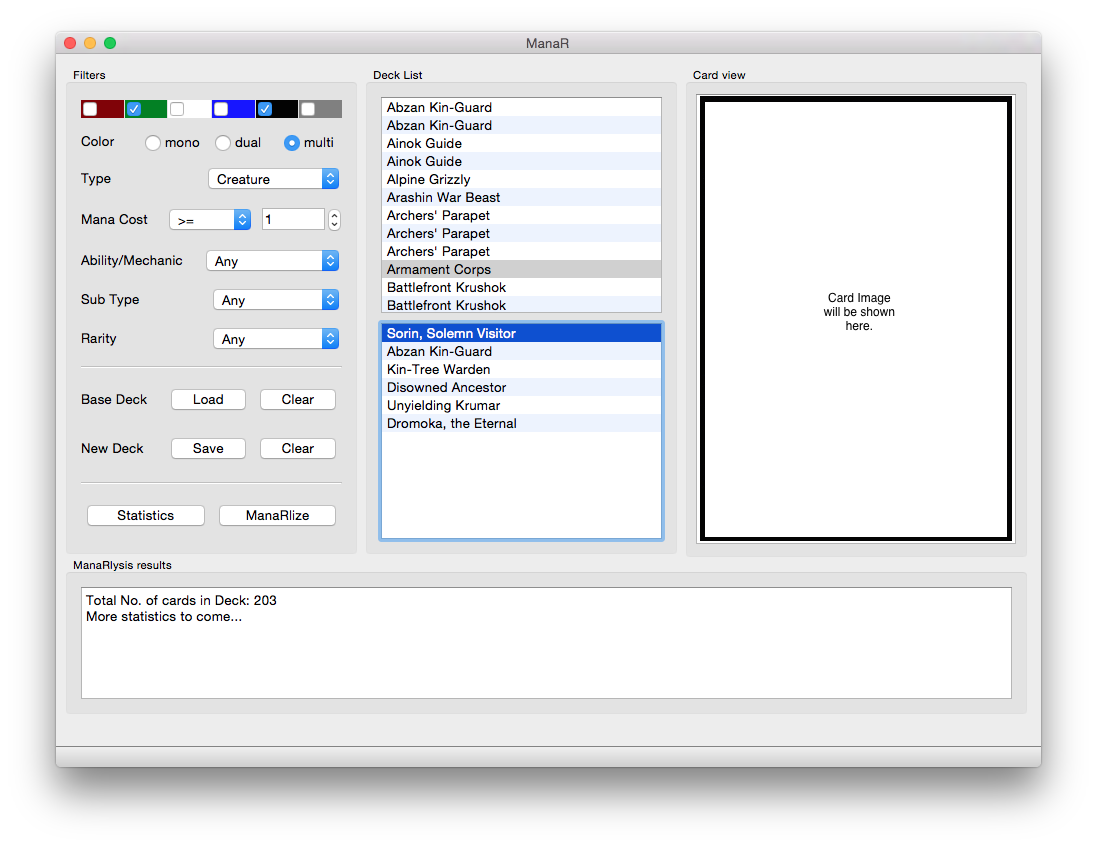
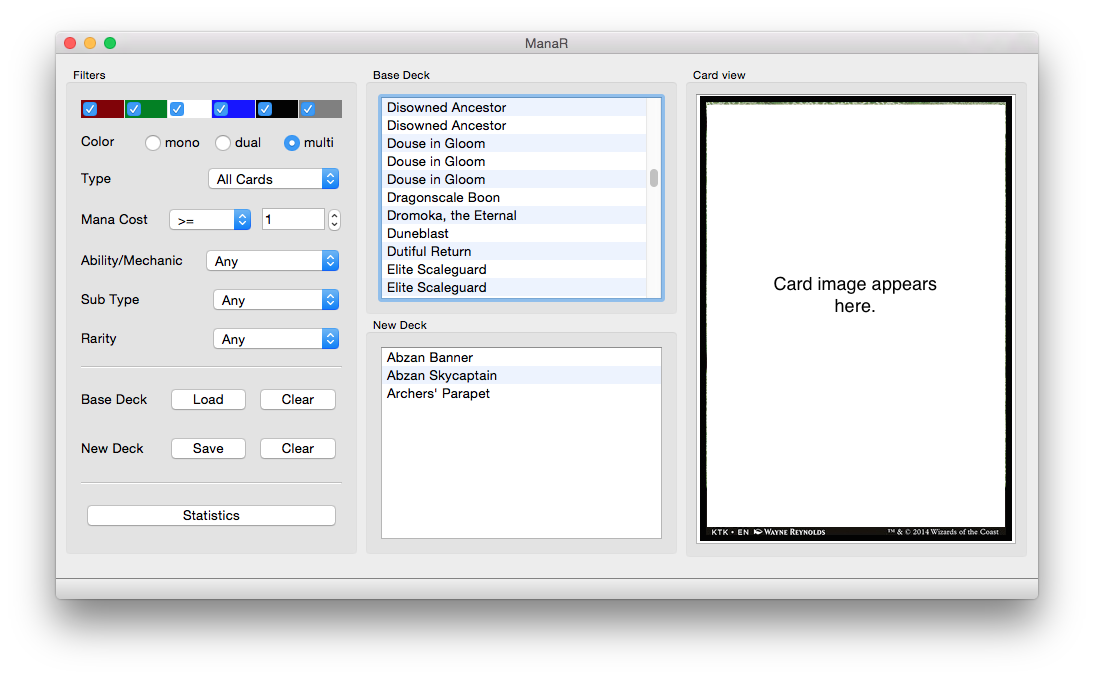
added COD export

Changed region(s): [[0.0311, 0.0309, 0.9634, 0.8351], [0.0311, 0.866, 0.9634, 0.9588], [0.7148, 0.3402, 0.8702, 0.4639]]

diff --git a/mainwindow_ui.py b/mainwindow_ui.py
@@ -2,7 +2,7 @@
 
 # Form implementation generated from reading ui file 'mainwindow.ui'
 #
-# Created: Tue Mar 10 23:19:01 2015
+# Created: Fri May 15 18:20:42 2015
 #      by: PyQt5 UI code generator 5.4
 #
 # WARNING! All changes made in this file will be lost!
@@ -12,7 +12,7 @@ from PyQt5 import QtCore, QtGui, QtWidgets
 class Ui_MainWindow(object):
     def setupUi(self, MainWindow):
         MainWindow.setObjectName("MainWindow")
-        MainWindow.resize(985, 713)
+        MainWindow.resize(982, 545)
         self.centralwidget = QtWidgets.QWidget(MainWindow)
         self.centralwidget.setObjectName("centralwidget")
         self.groupBox = QtWidgets.QGroupBox(self.centralwidget)
@@ -31,15 +31,6 @@ class Ui_MainWindow(object):
         sizePolicy.setHeightForWidth(self.graphicsView_card.sizePolicy().hasHeightForWidth())
         self.graphicsView_card.setSizePolicy(sizePolicy)
         self.graphicsView_card.setObjectName("graphicsView_card")
-        self.groupBox_3 = QtWidgets.QGroupBox(self.centralwidget)
-        self.groupBox_3.setGeometry(QtCore.QRect(10, 500, 961, 161))
-        self.groupBox_3.setObjectName("groupBox_3")
-        self.gridLayout = QtWidgets.QGridLayout(self.groupBox_3)
-        self.gridLayout.setObjectName("gridLayout")
-        self.textEdit = QtWidgets.QTextEdit(self.groupBox_3)
-        self.textEdit.setReadOnly(True)
-        self.textEdit.setObjectName("textEdit")
-        self.gridLayout.addWidget(self.textEdit, 0, 0, 1, 1)
         self.groupBox_base = QtWidgets.QGroupBox(self.centralwidget)
         self.groupBox_base.setGeometry(QtCore.QRect(10, 10, 291, 491))
         self.groupBox_base.setObjectName("groupBox_base")
@@ -237,9 +228,6 @@ class Ui_MainWindow(object):
         self.pushButton_stat = QtWidgets.QPushButton(self.groupBox_base)
         self.pushButton_stat.setObjectName("pushButton_stat")
         self.horizontalLayout_9.addWidget(self.pushButton_stat)
-        self.pushButton_manarlize = QtWidgets.QPushButton(self.groupBox_base)
-        self.pushButton_manarlize.setObjectName("pushButton_manarlize")
-        self.horizontalLayout_9.addWidget(self.pushButton_manarlize)
         self.verticalLayout.addLayout(self.horizontalLayout_9)
         self.groupBox_2 = QtWidgets.QGroupBox(self.centralwidget)
         self.groupBox_2.setGeometry(QtCore.QRect(310, 260, 311, 241))
@@ -281,12 +269,10 @@ class Ui_MainWindow(object):
         self.statusbar.setObjectName("statusbar")
         MainWindow.setStatusBar(self.statusbar)
         self.menubar = QtWidgets.QMenuBar(MainWindow)
-        self.menubar.setGeometry(QtCore.QRect(0, 0, 985, 22))
+        self.menubar.setGeometry(QtCore.QRect(0, 0, 982, 22))
         self.menubar.setObjectName("menubar")
         self.menuDeck = QtWidgets.QMenu(self.menubar)
         self.menuDeck.setObjectName("menuDeck")
-        self.menuCard = QtWidgets.QMenu(self.menubar)
-        self.menuCard.setObjectName("menuCard")
         MainWindow.setMenuBar(self.menubar)
         self.actionLoad_Base_Deck = QtWidgets.QAction(MainWindow)
         self.actionLoad_Base_Deck.setObjectName("actionLoad_Base_Deck")
@@ -314,13 +300,8 @@ class Ui_MainWindow(object):
         self.menuDeck.addSeparator()
         self.menuDeck.addAction(self.actionDownload_Images)
         self.menuDeck.addSeparator()
-        self.menuDeck.addAction(self.actionManaRlize)
         self.menuDeck.addAction(self.actionGet_Statistics)
-        self.menuCard.addAction(self.actionPrint_URL)
-        self.menuCard.addAction(self.actionPrint_JSON)
-        self.menuCard.addSeparator()
         self.menubar.addAction(self.menuDeck.menuAction())
-        self.menubar.addAction(self.menuCard.menuAction())
 
         self.retranslateUi(MainWindow)
         QtCore.QMetaObject.connectSlotsByName(MainWindow)
@@ -329,7 +310,6 @@ class Ui_MainWindow(object):
         _translate = QtCore.QCoreApplication.translate
         MainWindow.setWindowTitle(_translate("MainWindow", "ManaR"))
         self.groupBox.setTitle(_translate("MainWindow", "Card view"))
-        self.groupBox_3.setTitle(_translate("MainWindow", "ManaRlysis results"))
         self.groupBox_base.setTitle(_translate("MainWindow", "Filters"))
         self.label_color.setText(_translate("MainWindow", "Color"))
         self.radioButton_mono_base.setText(_translate("MainWindow", "mono"))
@@ -394,11 +374,9 @@ class Ui_MainWindow(object):
         self.pushButton_save.setText(_translate("MainWindow", "Save"))
         self.pushButton_clear_new.setText(_translate("MainWindow", "Clear"))
         self.pushButton_stat.setText(_translate("MainWindow", "Statistics"))
-        self.pushButton_manarlize.setText(_translate("MainWindow", "ManaRlize"))
         self.groupBox_2.setTitle(_translate("MainWindow", "New Deck"))
         self.groupBox_4.setTitle(_translate("MainWindow", "Base Deck"))
         self.menuDeck.setTitle(_translate("MainWindow", "Deck"))
-        self.menuCard.setTitle(_translate("MainWindow", "Card"))
         self.actionLoad_Base_Deck.setText(_translate("MainWindow", "Load Base Deck"))
         self.actionLoad_Base_Deck.setShortcut(_translate("MainWindow", "Ctrl+O"))
         self.actionSave_New_Deck.setText(_translate("MainWindow", "Save New Deck"))

diff --git a/deck.py b/deck.py
@@ -9,6 +9,7 @@ import os
 import numpy as np
 import matplotlib.pyplot as plt
 import urllib.request as ur
+import xml.etree.ElementTree as et
 from card import Card
 
 
@@ -33,23 +34,32 @@ class Deck(object):
 
         return
 
-    def make_from_file(self, filename):
-        cards_file = np.genfromtxt(filename, dtype=None)
-        self.name = os.path.splitext(filename)[0]
+    def make_from_cod(self, file_name):
+        with open(file_name, 'rb') as f:
+            ba = f.read()
+        xml_tree_root = et.fromstring(ba)
+        for elem in xml_tree_root.iter(tag='card'):
+            for i in range(int(elem.attrib['number'])):
+                print(elem.attrib['name'])
+                # todo: cod import finish
+
+    def make_from_csv(self, file_name):
+        cards_file = np.genfromtxt(file_name, dtype=None)
+        self.name = os.path.splitext(file_name)[0]
         for i in range(len(cards_file)):
             for j in range(cards_file[i][2]):
                 block = cards_file[i][0].decode("utf-8")
                 number = cards_file[i][1]
                 cc = Card(block, number)
-                json_filename = self.folder_json + block + '.json'
-                if os.path.exists(json_filename):
-                    cc.load_dict_from_json(json_filename)
+                json_file_name = self.folder_json + block + '.json'
+                if os.path.exists(json_file_name):
+                    cc.load_dict_from_json(json_file_name)
                     self.add_card(cc)
                 else:
                     self.view.update_text_field(
-                        'File {} does not exist. Downloading ...'.format(json_filename))
+                        'File {} does not exist. Downloading ...'.format(json_file_name))
                     self.download_json(block)
-                    self.make_from_file(filename)  # recursive call!
+                    self.make_from_csv(file_name)  # recursive call!
                     return
 
         # now sort by name
@@ -70,21 +80,35 @@ class Deck(object):
 
     def download_images(self):
         for i in range(len(self.card_list)):
-            img_filename = self.folder_imgdb + '{}.jpg'.format(self.card_list[i].get_uid())
-            if not os.path.exists(img_filename):
+            img_file_name = self.folder_imgdb + '{}.jpg'.format(self.card_list[i].get_uid())
+            if not os.path.exists(img_file_name):
                 url = self.card_list[i].get_image_url(size='small')
                 message = '--> Retrieving image of {} from {}'.format(self.card_list[i], url)
                 self.view.update_text_field(message)
                 g = ur.urlopen(url)
-                with open(img_filename, 'b+w') as f:
+                with open(img_file_name, 'b+w') as f:
                     f.write(g.read())
 
-    def save_to_disk(self, filename):
-        with open(filename, 'w') as f:
+    def save_to_cod(self, file_name):
+        root = et.Element('cockatrice_deck')
+        root.set('version', '1')
+        tree = et.ElementTree(root)
+        et.SubElement(root, 'deckname')
+        et.SubElement(root, 'comments')
+        zone = et.SubElement(root, 'zone')
+        for i in range(len(self.card_list)):
+            card = et.SubElement(zone, 'card')
+            card.set('number', '1')
+            card.set('price', '0')
+            card.set('name', self.card_list[i].name)
+        tree.write(file_name, encoding='utf-8', xml_declaration=True)
+
+    def save_to_csv(self, file_name):
+        with open(file_name, 'w') as f:
             for i in range(len(self.card_list)):
                 f.write('{}\t{}\t1\n'.format(self.card_list[i].block, self.card_list[i].number))
 
-    def get_image_filename_from_name(self, name):
+    def get_image_file_name_from_name(self, name):
         for c in self.card_list:
             if name == c.__str__():
                 return self.folder_imgdb + '{}.jpg'.format(c.get_uid())

diff --git a/mainwindow.py b/mainwindow.py
@@ -68,8 +68,6 @@ class mainWindow(QMainWindow, Ui_MainWindow, Interface):
         self.actionClear_New_Deck.triggered.connect(self.clear_new_deck_list)
         self.pushButton_clear_new.clicked.connect(self.clear_new_deck_list)
 
-        self.pushButton_manarlize.clicked.connect(self.base_deck.get_deck_stat)
-
         self.listView_base.clicked.connect(self.update_card_view_base)
         self.listView_new.clicked.connect(self.update_card_view_new)
         self.listView_base.doubleClicked.connect(self.on_base_deck_list_view_double_clicked)
@@ -109,9 +107,9 @@ class mainWindow(QMainWindow, Ui_MainWindow, Interface):
 
     def update_card_view_base(self, index):
         card_name = self.listView_base.model().itemData(index)[0]
-        pic_filename = self.base_deck.get_image_filename_from_name(card_name)
+        pic_file_name = self.base_deck.get_image_file_name_from_name(card_name)
         scene = QGraphicsScene()
-        scene.addPixmap(QPixmap(pic_filename))
+        scene.addPixmap(QPixmap(pic_file_name))
         self.graphicsView_card.setScene(scene)
 
     def update_base_deck_list_view(self, lst):
@@ -136,9 +134,9 @@ class mainWindow(QMainWindow, Ui_MainWindow, Interface):
 
     def update_card_view_new(self, index):
         card_name = self.listView_new.model().itemData(index)[0]
-        pic_filename = self.new_deck.get_image_filename_from_name(card_name)
+        pic_file_name = self.new_deck.get_image_file_name_from_name(card_name)
         scene = QGraphicsScene()
-        scene.addPixmap(QPixmap(pic_filename))
+        scene.addPixmap(QPixmap(pic_file_name))
         self.graphicsView_card.setScene(scene)
 
     def update_new_deck_list_view(self, lst):
@@ -161,26 +159,35 @@ class mainWindow(QMainWindow, Ui_MainWindow, Interface):
     ## --------
 
     def update_text_field(self, message):
-        self.textEdit.append(message)
+        self.statusbar.showMessage(message)
 
     def save_file_dialog(self):
         self.scan_for_dropped_items()
-        fileName, _ = QFileDialog.getSaveFileName(self, "Save deck", '',
-                                                  "Tab separated values (*.csv)")  # ;;All Files (*)"
-        if not fileName:
+        file_name, _ = QFileDialog.getSaveFileName(self, "Save deck", '',
+                                                   "Tab separated values (*.csv);;Cockatrice Deck files (*.cod)")
+        if not file_name:
             return
         if len(self.new_deck.card_list) < 2:
             self.update_text_field('Deck must contain at least 2 cards. Not saving.')
             return
-        self.new_deck.save_to_disk(fileName)
+
+        if file_name.endswith('csv'):
+            self.new_deck.save_to_csv(file_name)
+        if file_name.endswith('cod'):
+            self.new_deck.save_to_cod(file_name)
 
     def open_file_dialog(self):
-        file_name, _ = QFileDialog.getOpenFileName(self, "Open Deck", '', "Tab separated values (*.csv)")
+        file_name, _ = QFileDialog.getOpenFileName(self, "Open Deck", '',
+                                                   "Tab separated values (*.csv);;Cockatrice Deck files (*.cod)")
 
         if not file_name:
             return
 
-        self.base_deck.make_from_file(file_name)
+        if file_name.endswith('csv'):
+            self.base_deck.make_from_csv(file_name)
+        if file_name.endswith('cod'):
+            self.base_deck.make_from_cod(file_name)
+
         lst = self.base_deck.card_list
         self.update_base_deck_list_view(lst)
 

diff --git a/pymtg.py b/pymtg.py
@@ -11,7 +11,7 @@ from deck import Deck
 
 if __name__ == "__main__":
     allcards = Deck("my_cards")
-    allcards.make_from_file('mycards.txt')
+    allcards.make_from_csv('mycards.txt')
     lst = allcards.nonland_card_list
     lst = Deck.get_unique_list(lst)
     Deck.print_list(Deck.get_blacks(lst))

diff --git a/README.md b/README.md
@@ -1,17 +1,21 @@
 # ManaR
 
-ManaR (previously called PyMTG) is yet another Magic: The Gathering (TM) utility written in Python. Organize your MTG cards, deck and strategy using an object oriented interface to mtg cards. It uses the JSON database files from [http://mtgjson.com/](http://mtgjson.com/). Copyright notice: Magic: The Gathering (TM) and all card names and artworks are copyrighted material and belong to their owners.
+ManaR is yet another Magic: The Gathering (TM) deck building and management utility written in Python. This program runs offline and is platform independent. Organize your MTG cards, deck and strategy using an object oriented interface to mtg cards. It uses the JSON database files from [http://mtgjson.com/](http://mtgjson.com/). Classes can be used separately in other projects.
 
+Copyright notice:
+	
+Magic: the Gathering, all card names and artworks are TM and copyright Wizards of the Coast, Inc, a subsidiary of Hasbro, Inc. All rights reserved. This program is unaffiliated. The program does not include such copyrighted material, they are downloaded on user demand from Internet.
 ![image](rsrc/screenshot.png)
 
 #### Features
 
 Following features are supported:
 
-* QT5 based GUI
+* QT5 based GUI + object oriented Python 3.4 code
 * Automatic download of the missing JSON database files.
 * Load a database of your cards
 * Make and save individual decks from existing decks
+* Save in [Cockatrice](https://github.com/Cockatrice/Cockatrice) format
 * Search for cards and add them into the decks.
 * Download card images from internet put in separate directories named after each deck
 * Look up cards in using automatically generated URLs:
@@ -30,3 +34,5 @@ By searching the internet I found some other projects that based on their descri
 * [https://github.com/dblotsky/pymtg](https://github.com/dblotsky/pymtg)
 * [https://code.google.com/p/pymtg/](https://code.google.com/p/pymtg/)
 * [https://searchcode.com/codesearch/view/3958072/](https://searchcode.com/codesearch/view/3958072/)
+* [https://github.com/mutanabbi/mtg](https://github.com/mutanabbi/mtg)
+
